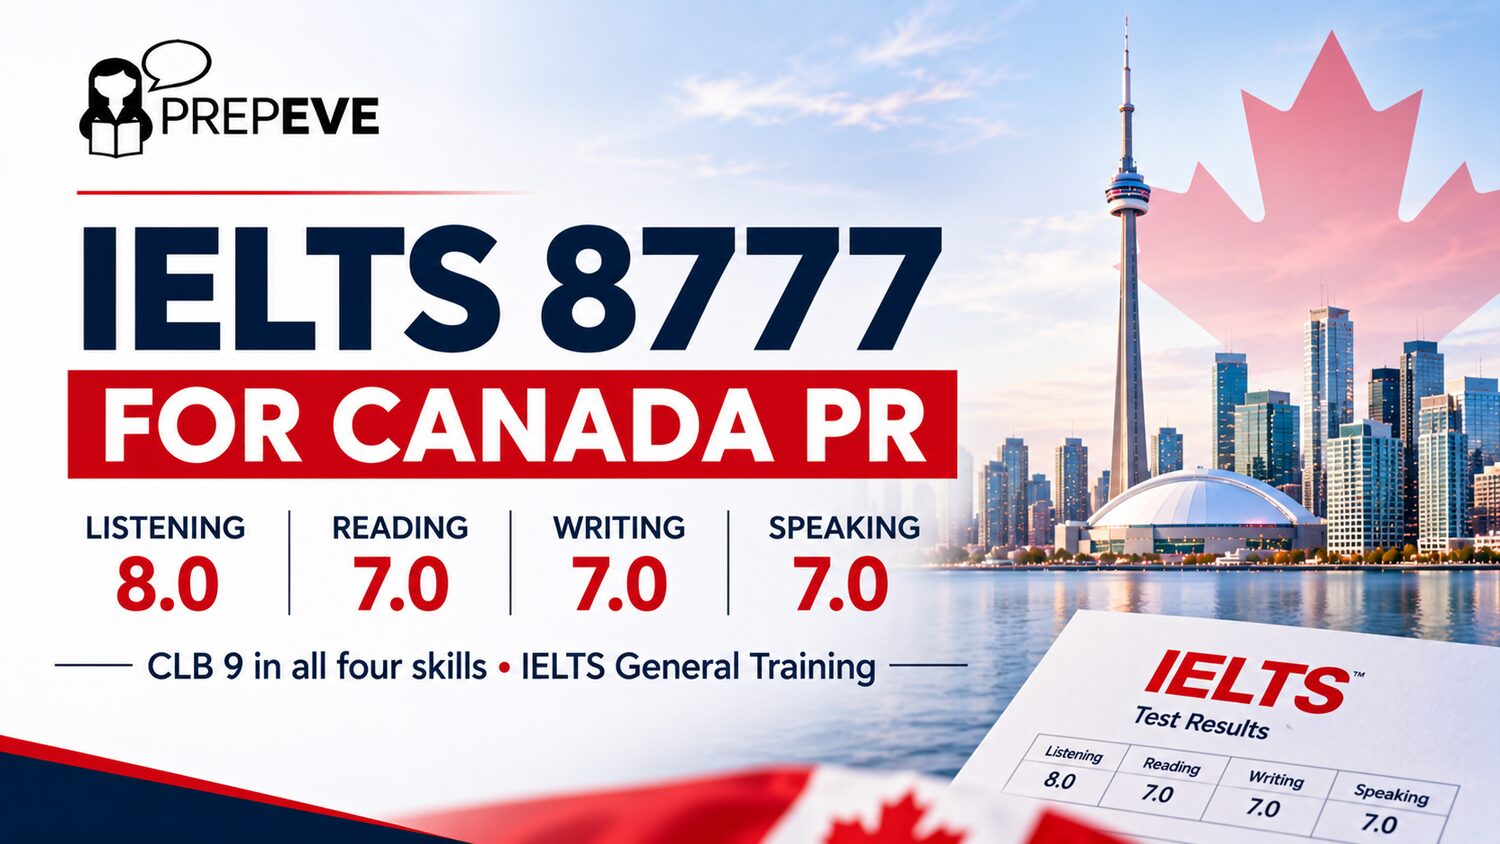
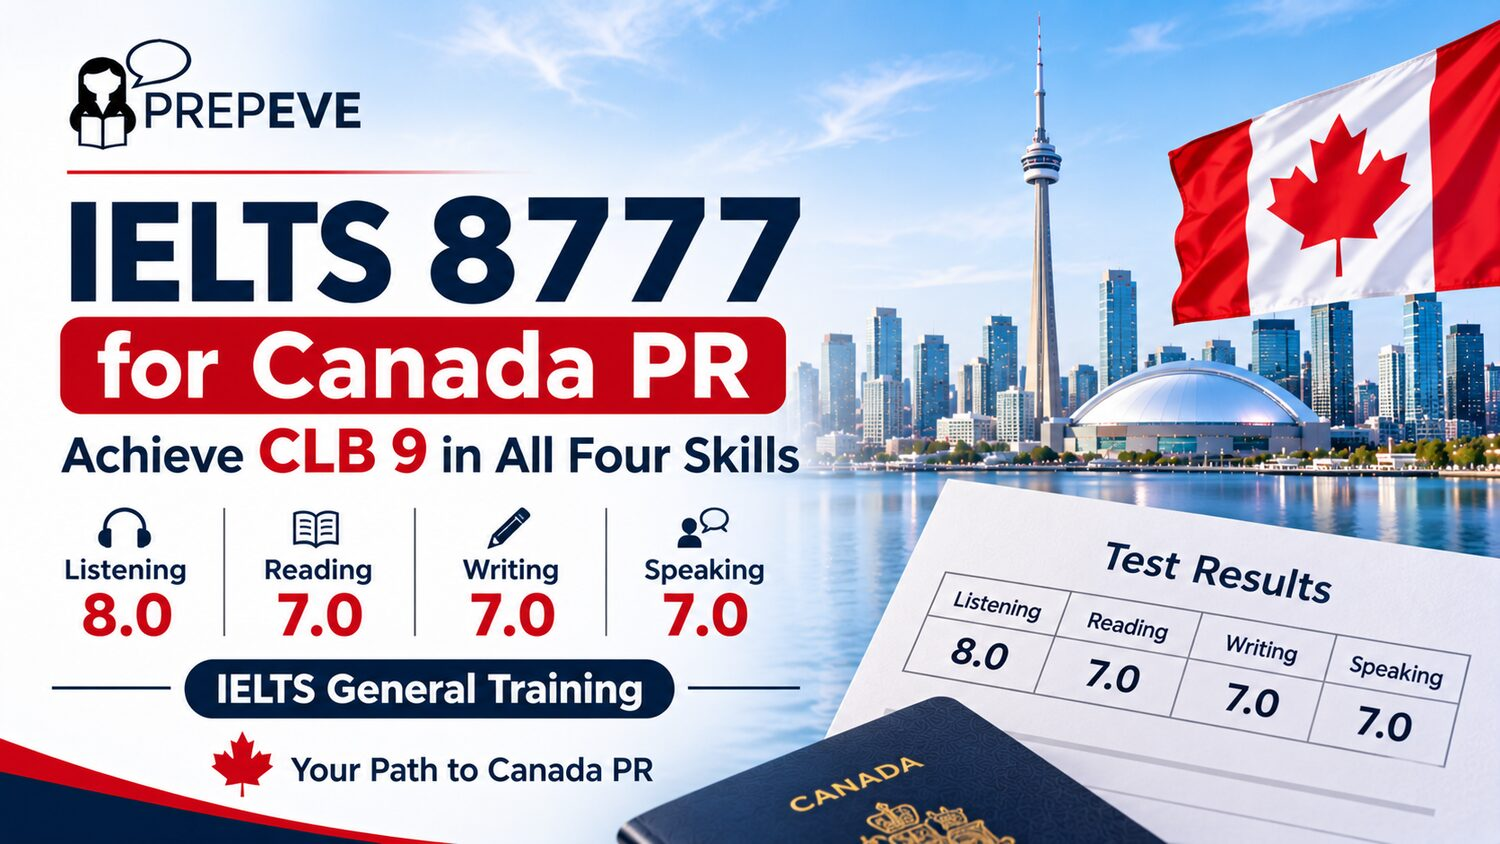
Use the owner's revised 8777 cover; hold back the Alberta cover
The revised IELTS 8777 image drops the IELTS-logo style result sheet.
The Alberta cover is removed from this release until a version
without the Government of Alberta logo arrives.

Claude-Session: https://claude.ai/code/session_01S6UTQ2Sxu6DNdy9cnjkSVj

diff --git a/alberta-pnp-aaip/index.html b/alberta-pnp-aaip/index.html
@@ -12,11 +12,11 @@
 <meta property="og:title" content="Alberta PNP (AAIP) 2026: Streams, EOI and Latest Draws"/>
 <meta property="og:description" content="Alberta PNP (AAIP) in 2026: the Alberta Opportunity, Express Entry, health care and Rural Renewal streams, the CAD 135 worker EOI, points and latest draws."/>
 <meta property="og:url" content="https://www.prepeve.com/alberta-pnp-aaip"/>
-<meta property="og:image" content="https://www.prepeve.com/assets/img/alberta-pnp-aaip-prepeve.jpg"/>
+<meta property="og:image" content="https://www.prepeve.com/og-image.jpg"/>
 <meta name="twitter:card" content="summary_large_image"/>
 <meta name="twitter:title" content="Alberta PNP (AAIP) 2026: Streams, EOI and Latest Draws"/>
 <meta name="twitter:description" content="Alberta PNP (AAIP) in 2026: the Alberta Opportunity, Express Entry, health care and Rural Renewal streams, the CAD 135 worker EOI, points and latest draws."/>
-<meta name="twitter:image" content="https://www.prepeve.com/assets/img/alberta-pnp-aaip-prepeve.jpg"/>
+<meta name="twitter:image" content="https://www.prepeve.com/og-image.jpg"/>
 <script async src="https://www.googletagmanager.com/gtag/js?id=G-VR61XWFSW3"></script>
 <script>
   window.dataLayer = window.dataLayer || [];
@@ -49,10 +49,7 @@
    "publisher": {
     "@id": "https://www.prepeve.com/#org"
    },
-   "image": [
-    "https://www.prepeve.com/assets/img/alberta-pnp-aaip-prepeve.jpg",
-    "https://www.prepeve.com/og-image.jpg"
-   ],
+   "image": "https://www.prepeve.com/og-image.jpg",
    "inLanguage": "en"
   },
   {
@@ -145,9 +142,6 @@
 }
 </script>
 <style>
-.city-banner{margin:0 0 1.2em;max-width:none}
-.city-banner img{display:block;width:100%;height:auto;border:1px solid var(--line);border-radius:16px;background:#fff}
-
 .art{padding:40px 0 64px;background:linear-gradient(180deg,var(--bg-3),#fff 320px)}
 .art .wrap{max-width:792px}
 .art-body{font-size:1.0625rem;line-height:1.75;color:var(--ink-2)}
@@ -264,7 +258,6 @@ p.g-review-note{font-size:.8rem;font-weight:700;letter-spacing:.05em;text-transf
 <div class="pcta-btns"><a href="https://wa.me/919877714284?text=Hi%20PrepEve%21%20I%20want%20to%20know%20if%20I%20can%20apply%20to%20the%20Alberta%20PNP.%20Can%20Sanjita%20check%20my%20profile%3F" class="btn btn-wa" target="_blank" rel="noopener" data-cta="alberta-pnp-aaip-top-wa">Ask Sanjita on WhatsApp</a><a href="/pnp-canada" class="btn btn-primary" data-cta="alberta-pnp-aaip-top-2">How the PNP Works</a></div>
 </div>
 <p class="meta-line">Last updated: 18 November 2026 · Written by the <a href="/about">PrepEve team</a></p>
-<p class="city-banner"><img src="/assets/img/alberta-pnp-aaip-prepeve.jpg" alt="Alberta PNP (AAIP) 2026 guide - PrepEve" width="1500" height="844" decoding="async"></p>
 <dl class="keyfacts"><dt>Full form</dt><dd>AAIP: Alberta Advantage Immigration Program</dd><dt>Worker streams</dt><dd>Alberta Opportunity; Alberta Express Entry; Dedicated Health Care Pathways; Rural Renewal</dd><dt>Worker EOI fee</dt><dd>CAD 135 (since 7 April 2026)</dd><dt>EOI validity</dt><dd>12 months in the pool</dd><dt>Points grid</dt><dd>Maximum 100 points</dd><dt>2026 allocation</dt><dd>6,603 nominations</dd></dl>
 <h2 id="streams">AAIP worker streams in 2026</h2>
 <ul><li><strong>Alberta Opportunity Stream:</strong> for people already working in Alberta in an eligible job. It has the largest share of Alberta's nominations.</li><li><strong>Alberta Express Entry Stream:</strong> for candidates in the federal Express Entry pool. Alberta runs pathways in this stream for technology workers (the Accelerated Tech Pathway), health care professionals and police occupations, plus draws for priority sectors.</li><li><strong>Dedicated Health Care Pathways:</strong> Express Entry and non-Express Entry routes for health care workers.</li><li><strong>Rural Renewal Stream:</strong> for people with a job offer in a designated rural community. Its criteria changed on 1 January 2026.</li></ul>
